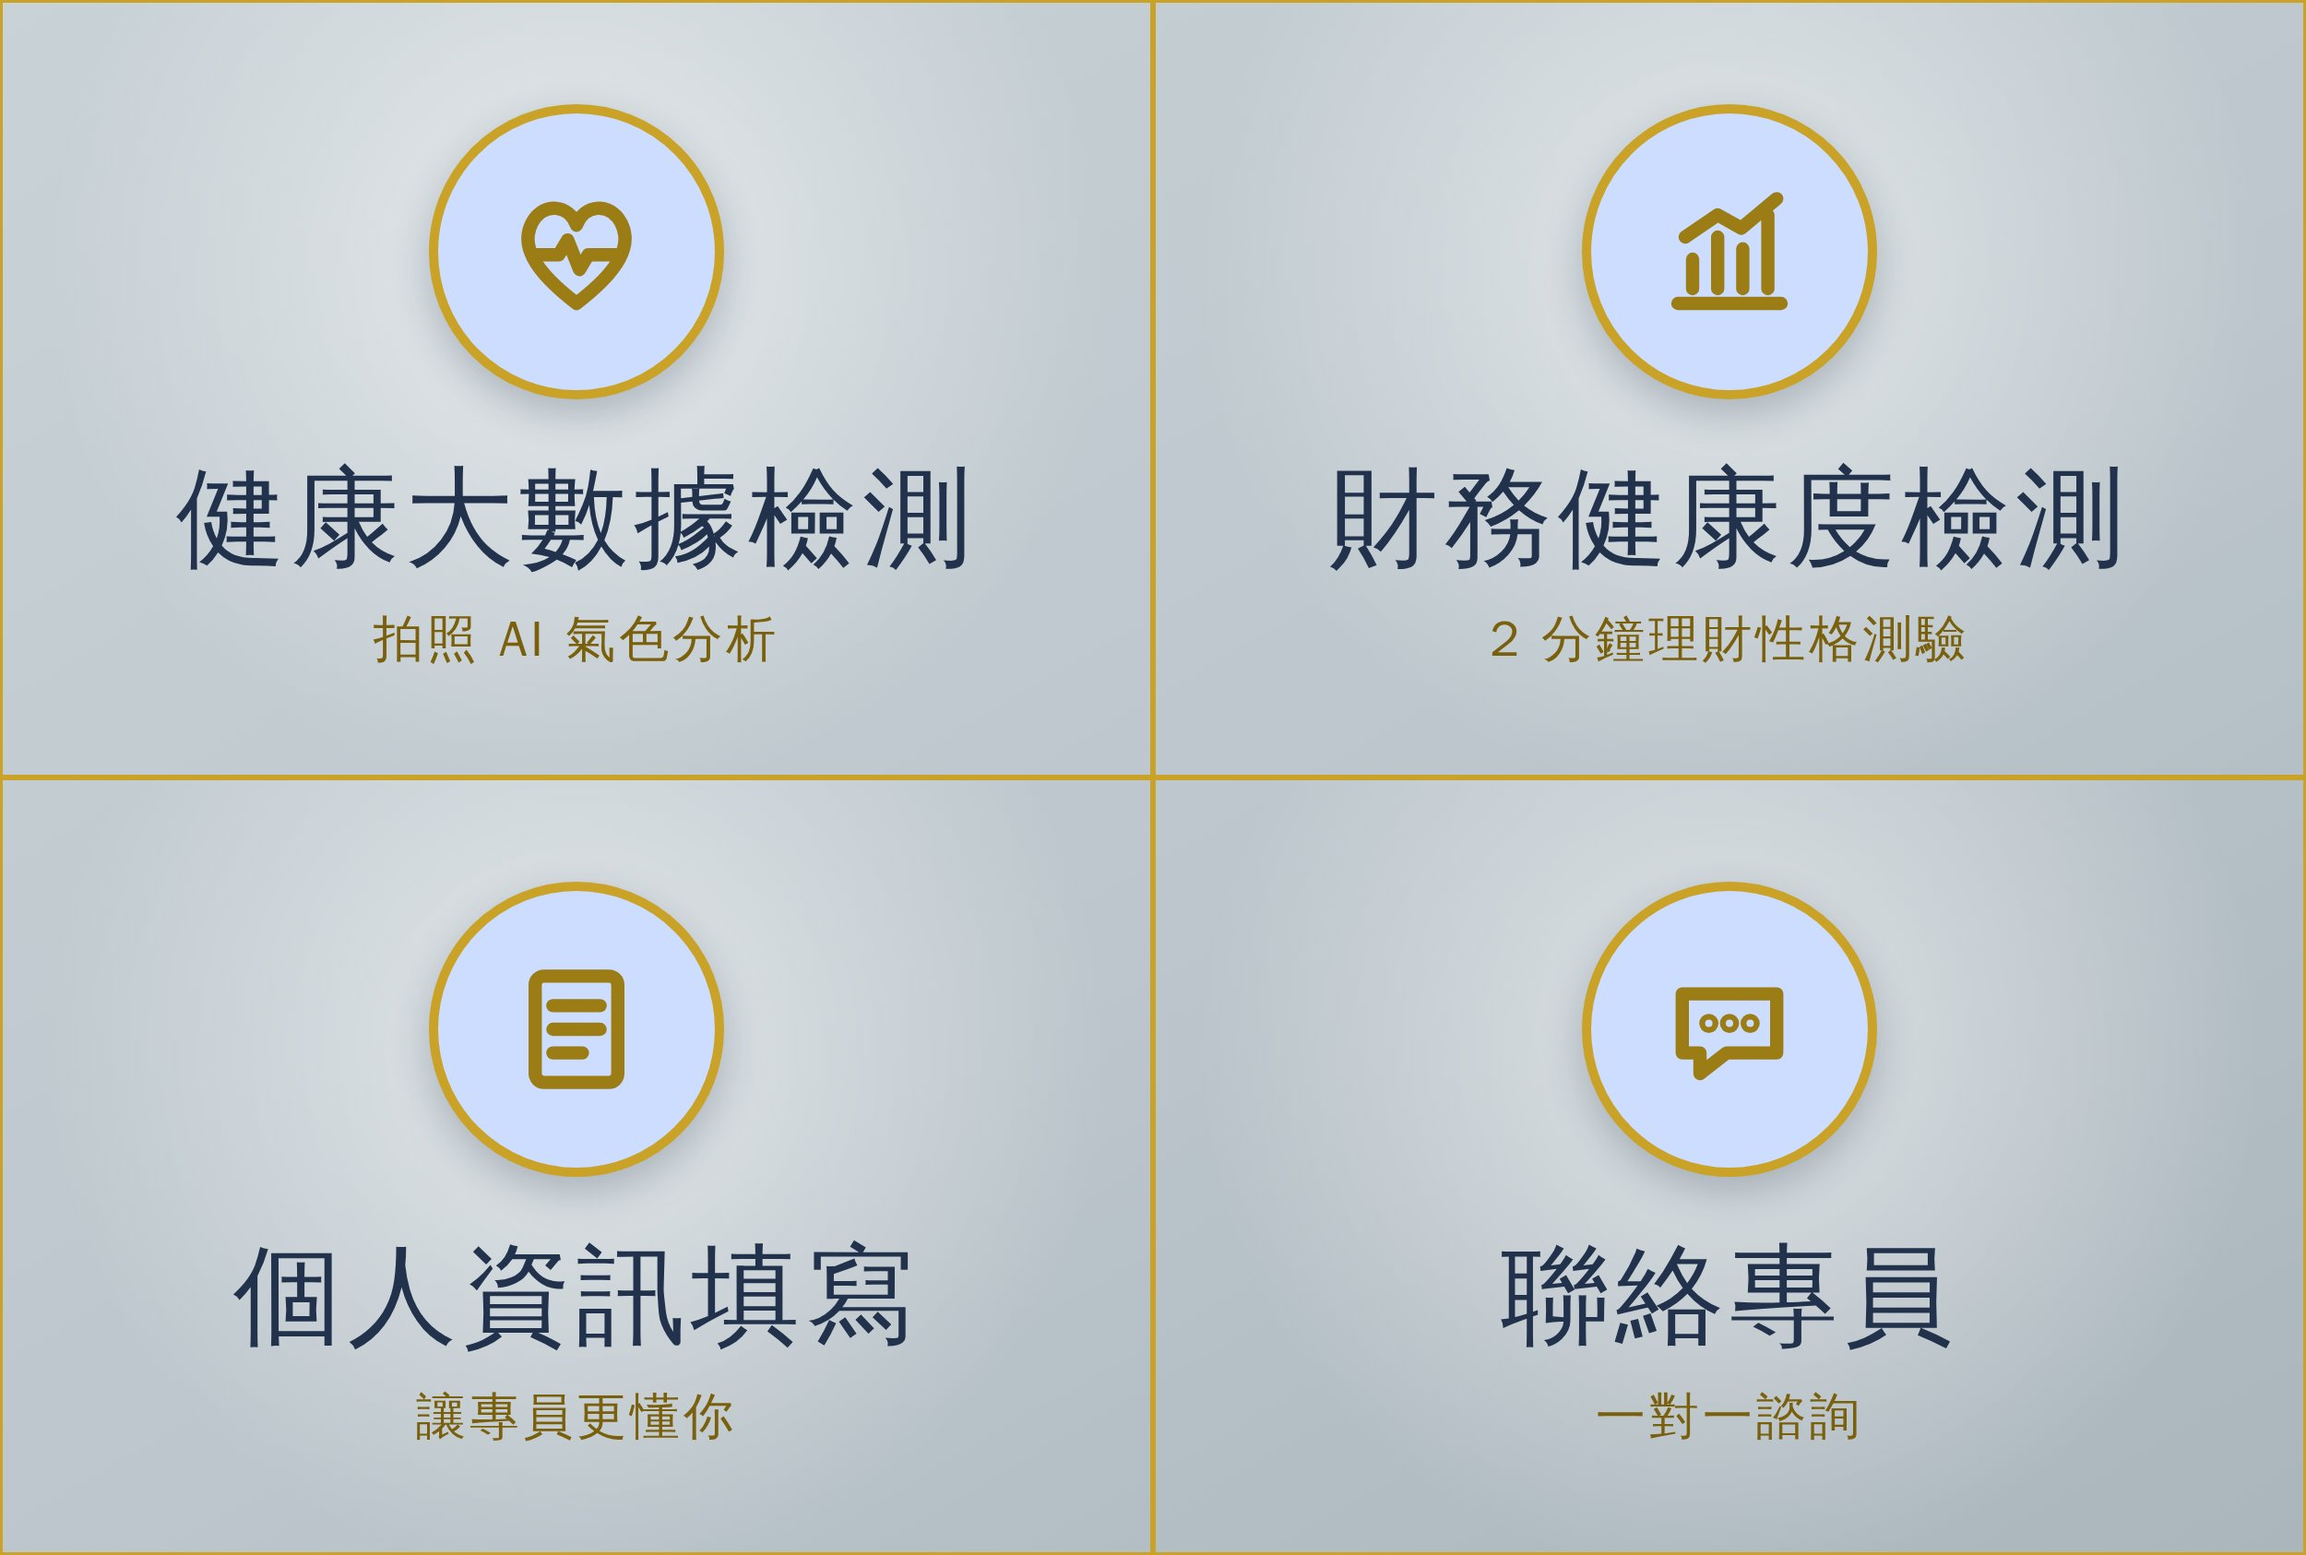
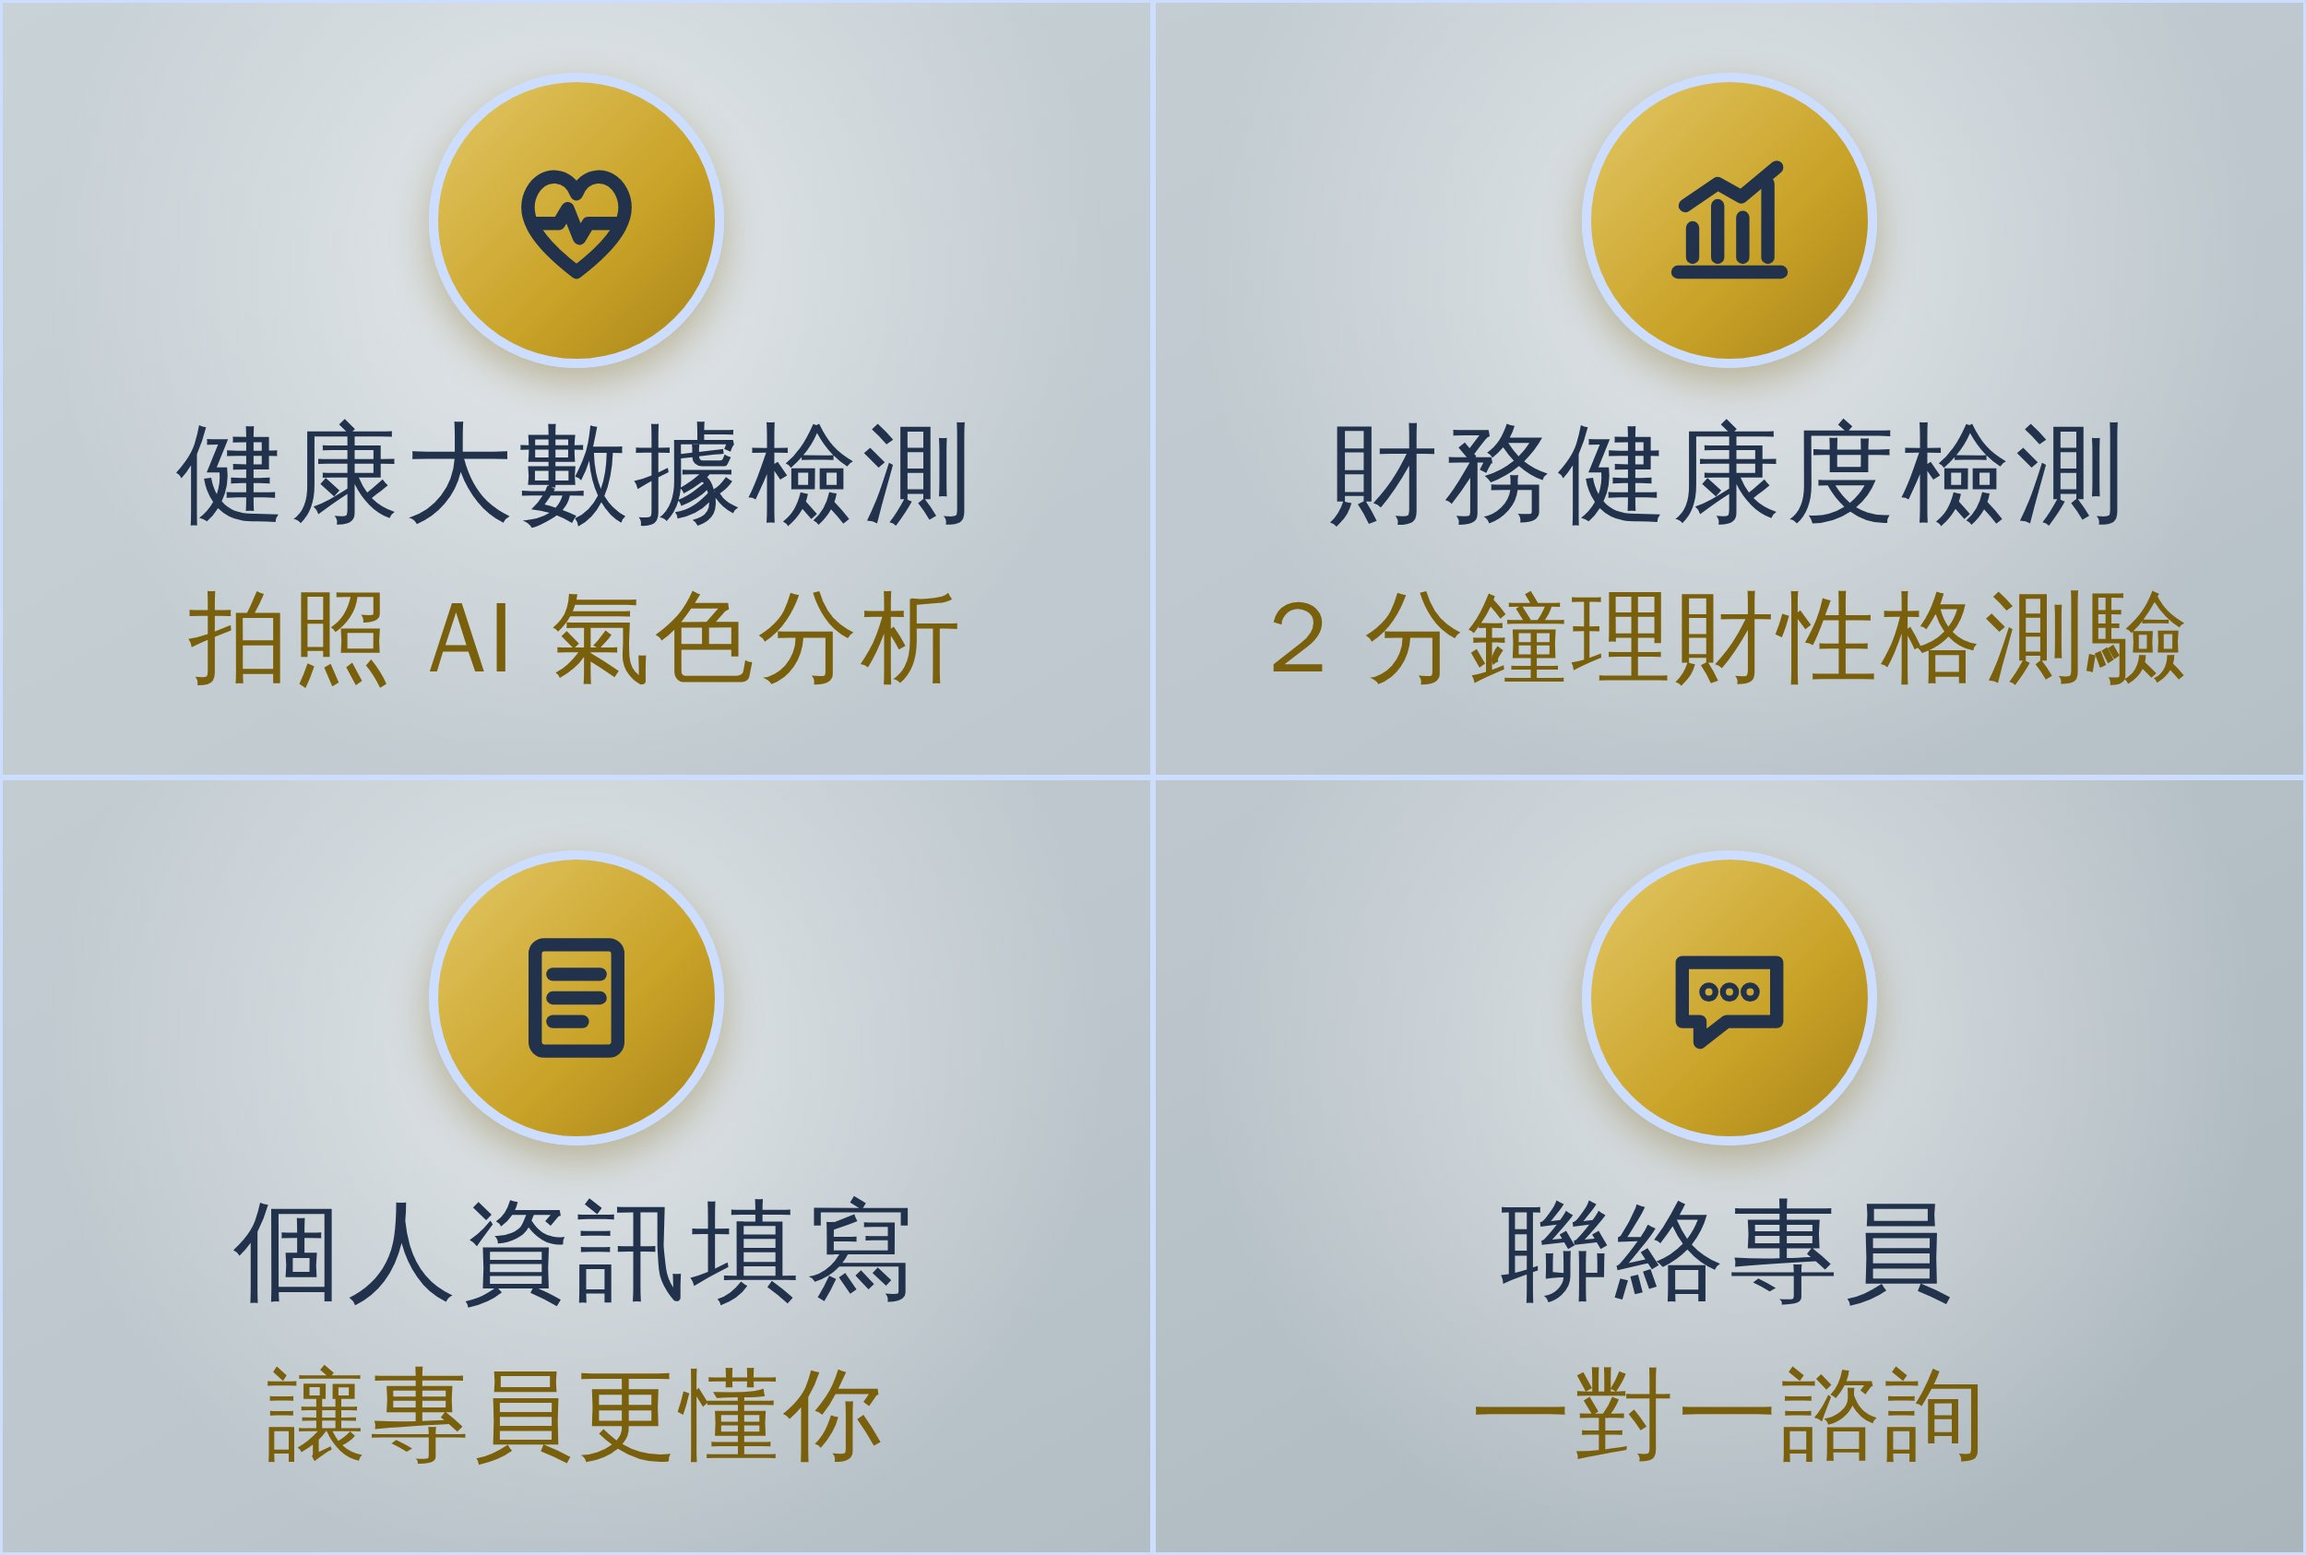
配色改為金色主色、藍色配色;圖文選單副標題放大一倍
Claude-Session: https://claude.ai/code/session_01DsibVKJkdjQTrKgVvQqwX2

diff --git a/assets/mf_style.css b/assets/mf_style.css
@@ -24,23 +24,23 @@ body {
   line-height: 1.6;
 }
 .mf-wrap { max-width: 560px; margin: 0 auto; padding: 16px 16px 40px; }
-.mf-header { text-align: center; padding: 16px 12px 12px; background: var(--mf-blue-accent); border-radius: var(--mf-radius); border-bottom: 3px solid var(--mf-gold); }
-.mf-brand { font-size: 12px; letter-spacing: .2em; color: var(--mf-gold-dark); font-weight: 700; }
+.mf-header { text-align: center; padding: 16px 12px 12px; background: linear-gradient(135deg, #e3c766 0%, var(--mf-gold) 100%); border-radius: var(--mf-radius); border-bottom: 4px solid var(--mf-blue-accent); }
+.mf-brand { font-size: 12px; letter-spacing: .2em; color: var(--mf-blue); font-weight: 700; }
 .mf-title { font-size: 22px; margin: 4px 0 2px; color: var(--mf-blue); }
-.mf-sub { font-size: 13px; color: var(--mf-muted); margin: 0; }
+.mf-sub { font-size: 13px; color: #33302a; margin: 0; }
 .mf-card {
   background: var(--mf-card); border-radius: var(--mf-radius); padding: 18px;
   margin-top: 14px; box-shadow: 0 4px 16px rgba(30, 39, 51, .08);
-  border-top: 3px solid var(--mf-gold);
+  border-top: 4px solid var(--mf-gold);
 }
 .mf-card h2 { font-size: 17px; margin: 0 0 10px; color: var(--mf-blue); }
 .mf-btn {
   display: block; width: 100%; border: 0; border-radius: 12px; padding: 14px;
   font-size: 16px; font-weight: 700; cursor: pointer;
-  background: var(--mf-blue-accent); color: var(--mf-blue); border: 1.5px solid #a9c0f0;
+  background: linear-gradient(135deg, #dcbc4a 0%, var(--mf-gold) 55%, #b08c1c 100%); color: var(--mf-blue); border: 0;
 }
 .mf-btn:disabled { opacity: .5; cursor: not-allowed; }
-.mf-btn.mf-ghost { background: #fff; color: var(--mf-gold-dark); border: 1.5px solid var(--mf-gold); }
+.mf-btn.mf-ghost { background: var(--mf-blue-accent); color: var(--mf-blue); border: 0; }
 .mf-btn + .mf-btn { margin-top: 10px; }
 .mf-note { font-size: 12px; color: var(--mf-muted); }
 .mf-disclaimer {
@@ -57,7 +57,7 @@ body {
 .mf-error { color: var(--mf-danger); font-size: 14px; margin-top: 10px; }
 .mf-toast {
   position: fixed; left: 50%; bottom: 24px; transform: translateX(-50%);
-  background: var(--mf-blue-accent); color: var(--mf-blue); border: 1px solid var(--mf-gold); padding: 10px 18px; border-radius: 999px;
+  background: var(--mf-gold); color: var(--mf-blue); border: 1px solid var(--mf-blue-accent); padding: 10px 18px; border-radius: 999px;
   font-size: 14px; box-shadow: 0 6px 18px rgba(0,0,0,.2); z-index: 9;
 }
 .mf-score-big { text-align: center; }
@@ -66,7 +66,7 @@ body {
 .mf-bar-row { margin: 10px 0; }
 .mf-bar-head { display: flex; justify-content: space-between; font-size: 14px; }
 .mf-bar { height: 8px; background: var(--mf-blue-soft); border-radius: 99px; overflow: hidden; margin-top: 4px; }
-.mf-bar > i { display: block; height: 100%; background: linear-gradient(90deg, var(--mf-blue-accent), var(--mf-gold)); }
+.mf-bar > i { display: block; height: 100%; background: linear-gradient(90deg, #dcbc4a, var(--mf-gold-dark)); }
 .mf-bar-note { font-size: 12px; color: var(--mf-muted); margin-top: 2px; }
 .mf-photo-preview { width: 100%; border-radius: 12px; margin: 10px 0; display: block; }
 label.mf-field { display: block; margin: 12px 0 0; font-size: 14px; font-weight: 600; }
@@ -86,7 +86,7 @@ label.mf-field { display: block; margin: 12px 0 0; font-size: 14px; font-weight:
   border: 1.5px solid var(--mf-line); border-radius: 12px; background: #fff; font-size: 15px;
   color: var(--mf-text); cursor: pointer; font-family: inherit;
 }
-.mf-option:active, .mf-option.mf-picked { border-color: var(--mf-gold); background: var(--mf-blue-accent); }
+.mf-option:active, .mf-option.mf-picked { border-color: var(--mf-gold); background: var(--mf-gold-soft); }
 .mf-persona { text-align: center; }
 .mf-persona .mf-icon { font-size: 44px; }
 .mf-persona .mf-name { font-size: 22px; font-weight: 800; color: var(--mf-blue); }

diff --git a/tools/mf_richmenu.html b/tools/mf_richmenu.html
@@ -12,16 +12,16 @@
   }
   .mf-cell {
     position: relative; display: flex; flex-direction: column; align-items: center; justify-content: center;
-    border: 6px solid #c9a227; margin: -3px; background: radial-gradient(circle at 50% 35%, rgba(255,255,255,.55) 0%, rgba(255,255,255,0) 70%);
+    border: 6px solid #ccddff; margin: -3px; background: radial-gradient(circle at 50% 35%, rgba(255,255,255,.55) 0%, rgba(255,255,255,0) 70%);
   }
   .mf-icon {
     width: 300px; height: 300px; border-radius: 50%; display: flex; align-items: center; justify-content: center;
-    background: #ccddff; box-shadow: 0 16px 40px rgba(34,50,77,.25);
-    border: 10px solid #c9a227;
+    background: linear-gradient(135deg, #e3c766 0%, #c9a227 60%, #a8841a 100%); box-shadow: 0 16px 40px rgba(122,95,12,.35);
+    border: 10px solid #ccddff;
   }
-  .mf-icon svg { width: 160px; height: 160px; fill: none; stroke: #9c7c14; stroke-width: 9; stroke-linecap: round; stroke-linejoin: round; }
-  .mf-label { margin-top: 50px; font-size: 118px; font-weight: 700; color: #22324d; letter-spacing: 6px; }
-  .mf-sub { margin-top: 14px; font-size: 54px; color: #7a5f0c; letter-spacing: 4px; }
+  .mf-icon svg { width: 160px; height: 160px; fill: none; stroke: #22324d; stroke-width: 9; stroke-linecap: round; stroke-linejoin: round; }
+  .mf-label { margin-top: 36px; font-size: 118px; font-weight: 700; color: #22324d; letter-spacing: 6px; }
+  .mf-sub { margin-top: 24px; font-size: 108px; color: #7a5f0c; letter-spacing: 4px; }
 </style>
 </head>
 <body>
